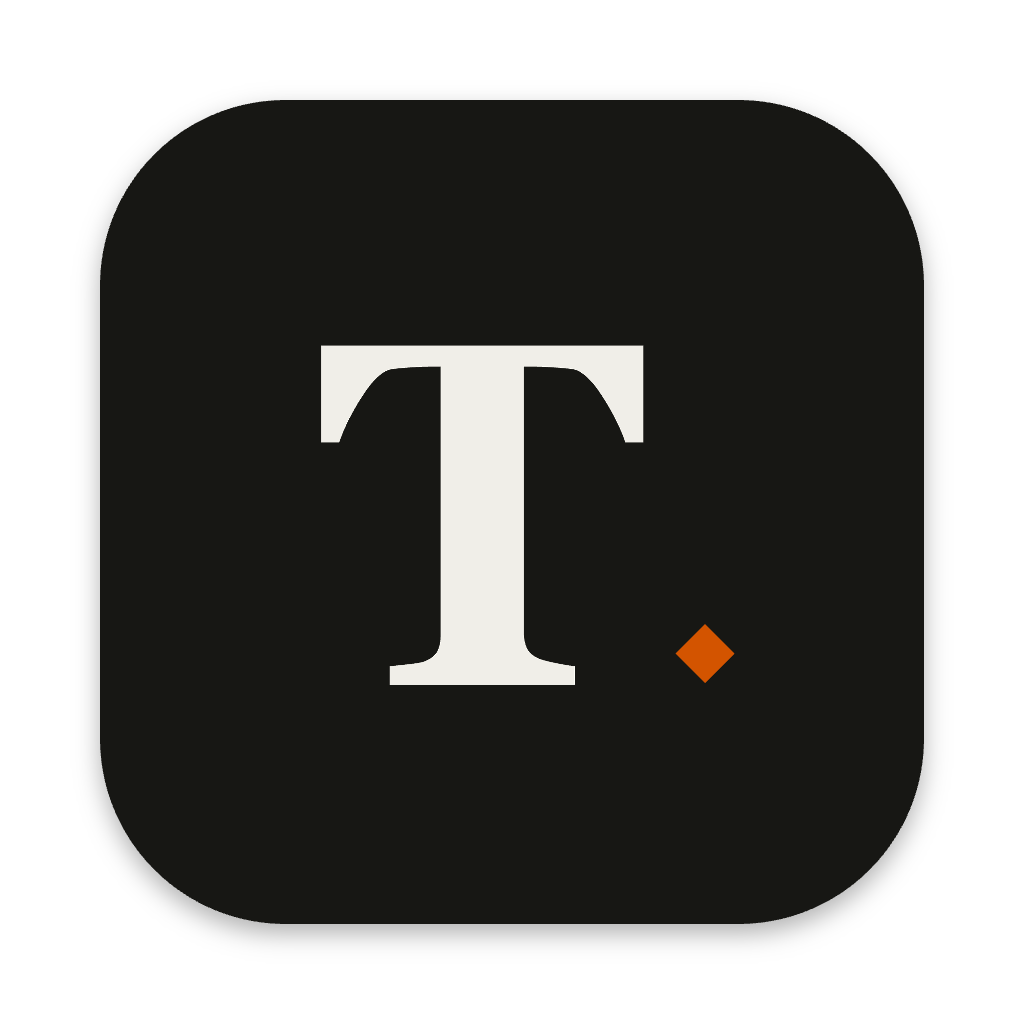
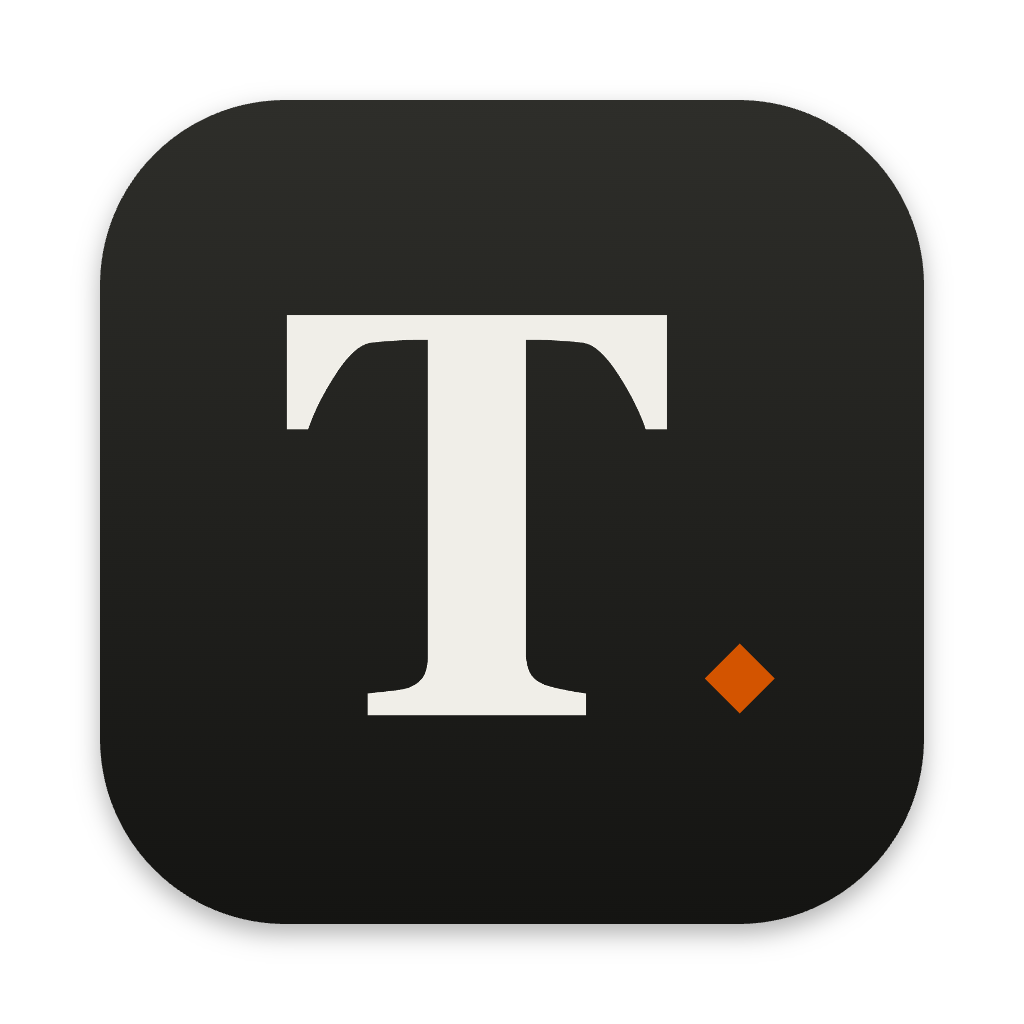
Ícone com degradê e letra maior
Fundo em degradê e T com losango 18% maiores, para pesar como os outros ícones do Dock; prévia social atualizada.

Changed region(s): [[0.2812, 0.2812, 0.6562, 0.7188], [0.6562, 0.5938, 0.75, 0.6875]]

diff --git a/scripts/generate-icons.js b/scripts/generate-icons.js
@@ -1,6 +1,6 @@
 /**
  * Gera os ícones do app a partir de um único desenho:
- * T em Georgia Bold creme sobre fundo quase preto, com o losango laranja
+ * T em Georgia Bold creme sobre fundo escuro em degradê, com o losango laranja
  * dos destaques da timeline ao lado.
  *
  *   resources/icon.png  1024 px, na grade do macOS (margem e sombra do Dock);
@@ -20,7 +20,7 @@ const ICO_SIZES = [16, 24, 32, 48, 64, 128, 256]
 
 // Desenho em coordenadas de um quadro de 512 px; roda no renderer
 const DRAW = `(() => {
-  const BG = '#171714', LETTER = '#F0EEE8', ACCENT = '#D35400'
+  const BG_TOP = '#2E2E2A', BG_BOTTOM = '#141412', LETTER = '#F0EEE8', ACCENT = '#D35400'
 
   // Glifo em alta resolução, recortado justo na tinta
   const src = document.createElement('canvas')
@@ -68,15 +68,24 @@ const DRAW = `(() => {
       c.shadowOffsetY = size * 10 / 1024
     }
     roundRect(c, off, off, body, body * (macGrid ? 0.225 : 0.1875))
-    c.fillStyle = BG
+    const bg = c.createLinearGradient(0, off, 0, off + body)
+    bg.addColorStop(0, BG_TOP)
+    bg.addColorStop(1, BG_BOTTOM)
+    c.fillStyle = bg
     c.fill()
     c.shadowColor = 'transparent'
 
-    // Mesma caixa do T do ícone anterior, 5% menor e deslocada para dar lugar ao losango
-    c.drawImage(src, glyph.x, glyph.y, glyph.w, glyph.h,
-      off + 137.3 * u, off + 152.45 * u, 200.45 * u, 211 * u)
+    // Daqui em diante, coordenadas do quadro de 512; T e losango 18% maiores
+    // que no desenho original, para pesarem como os símbolos dos outros ícones
+    c.translate(off, off)
+    c.scale(u, u)
+    c.translate(256, 258)
+    c.scale(1.18, 1.18)
+    c.translate(-256, -258)
 
-    const cx = off + 376 * u, cy = off + 344 * u, d = 18.4 * u
+    c.drawImage(src, glyph.x, glyph.y, glyph.w, glyph.h, 137.3, 152.45, 200.45, 211)
+
+    const cx = 376, cy = 344, d = 18.4
     c.beginPath()
     c.moveTo(cx, cy - d)
     c.lineTo(cx + d, cy)
